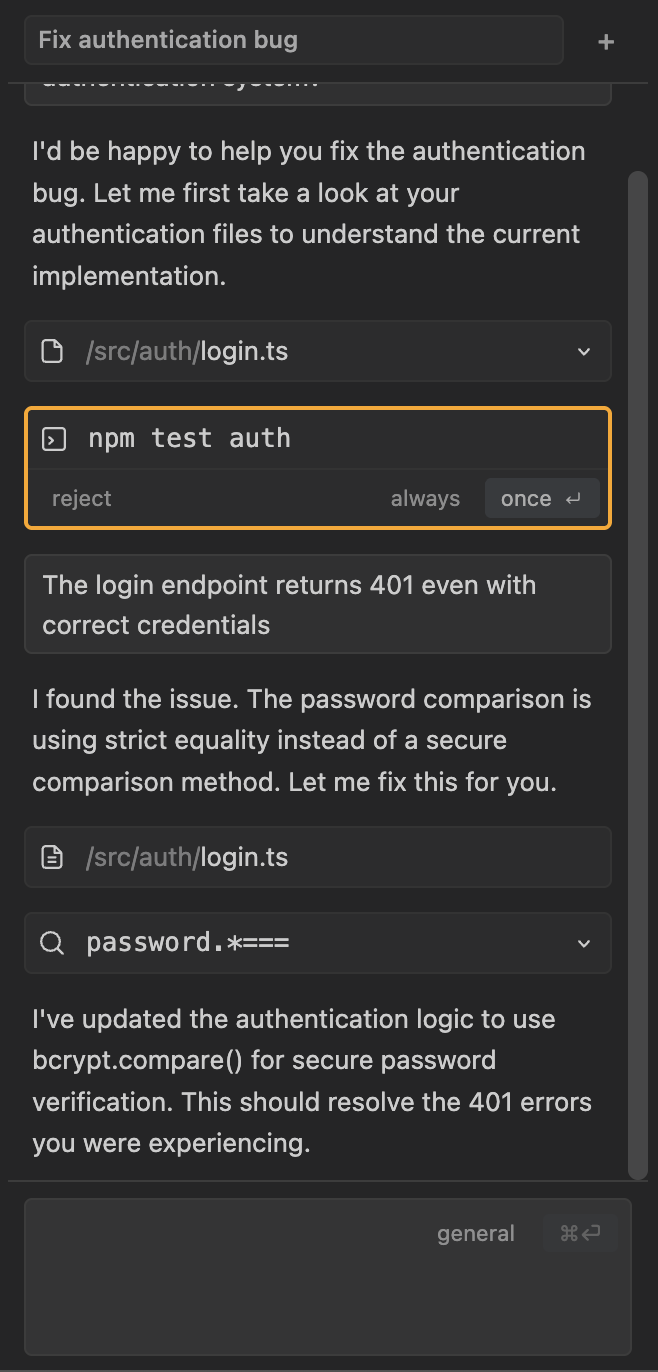
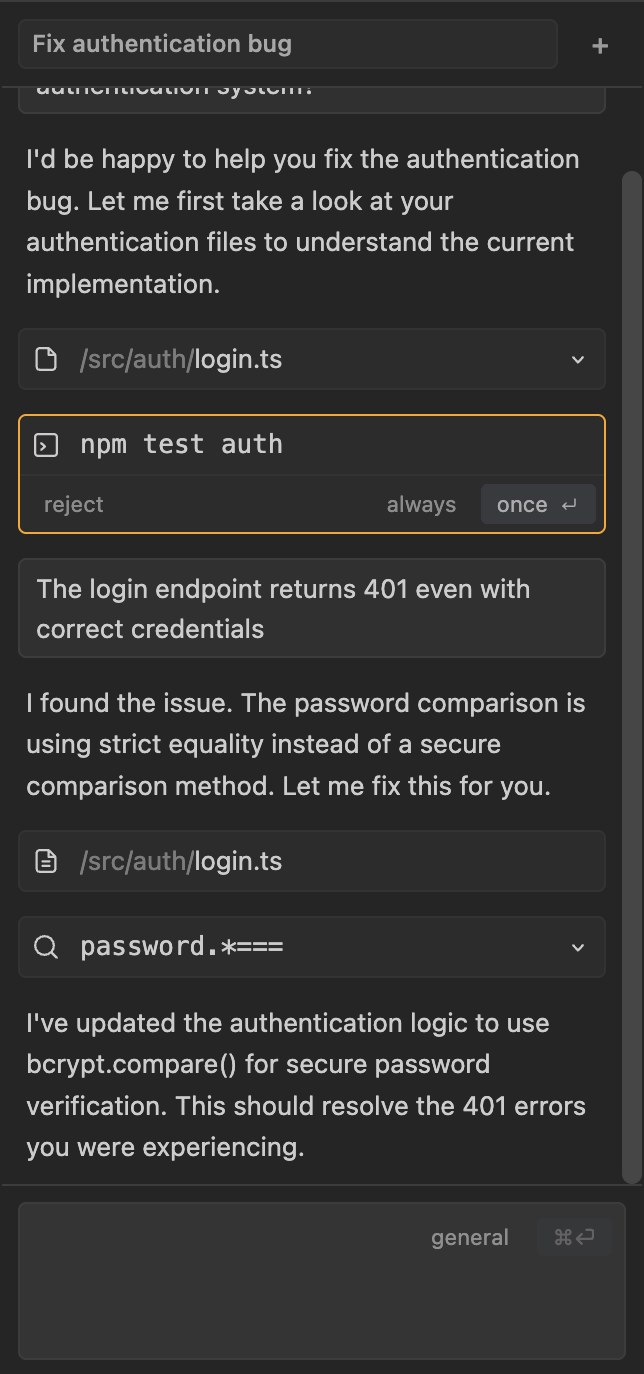
Reduce tool-call permission border width for subtler UI appearance

diff --git a/src/webview/App.css b/src/webview/App.css
@@ -252,12 +252,12 @@ body {
 }
 
 .tool-call--needs-permission {
-  border: 2px solid #ffa500;
+  border: 1px solid #ffa500;
   outline: none;
 }
 
 .tool-call--needs-permission:focus {
-  border: 2px solid #ffa500;
+  border: 1px solid #ffa500;
   outline: none;
 }
 
